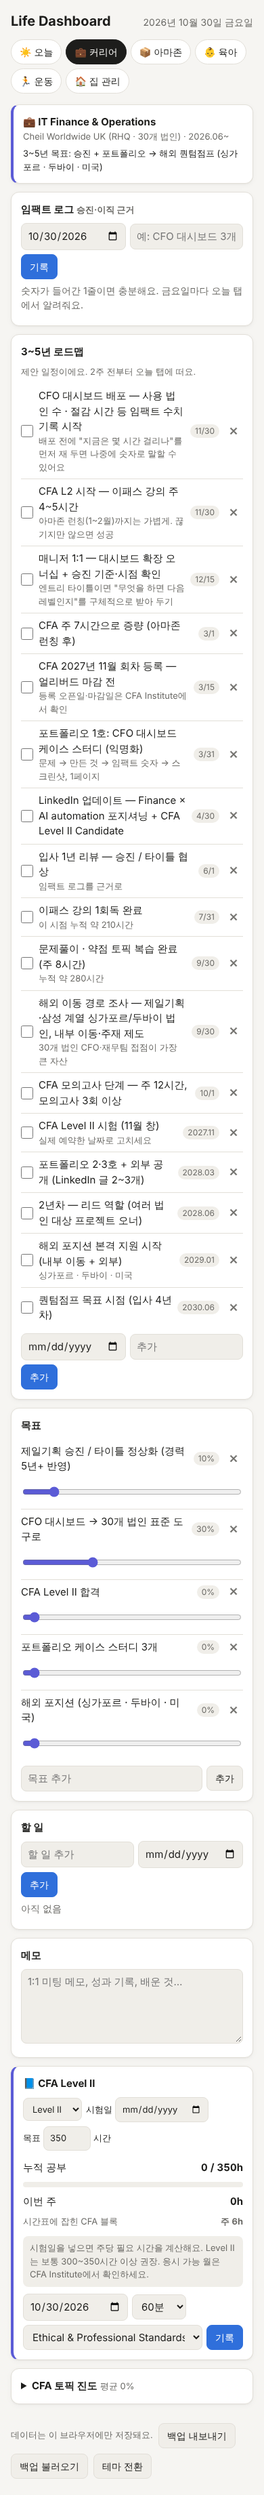
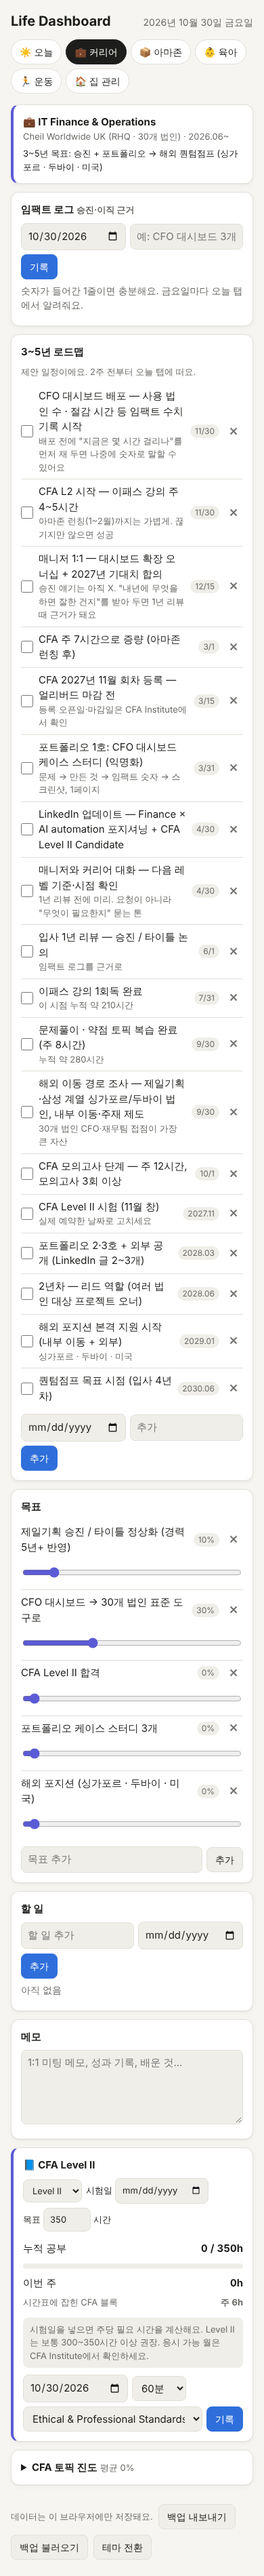
Reframe early career milestones away from promotion talk
The December 1:1 is about agreeing 2027 expectations; the promotion
conversation moves to April 2027, ahead of the one-year review.

Claude-Session: https://claude.ai/code/session_01GAwHhr3pWUM5SJs8EwZoWy

diff --git a/index.html b/index.html
@@ -184,7 +184,7 @@ const CAREER_GOALS = [
 // Suggested 3–5 year roadmap from the June 2026 start at Cheil UK; edit freely.
 const CAREER_MILESTONES = [
   ['2026-11-30', 'CFO 대시보드 배포 — 사용 법인 수 · 절감 시간 등 임팩트 수치 기록 시작', '배포 전에 "지금은 몇 시간 걸리나"를 먼저 재 두면 나중에 숫자로 말할 수 있어요'],
-  ['2026-12-15', '매니저 1:1 — 대시보드 확장 오너십 + 승진 기준·시점 확인', '엔트리 타이틀이면 "무엇을 하면 다음 레벨인지"를 구체적으로 받아 두기'],
+  ['2026-12-15', '매니저 1:1 — 대시보드 확장 오너십 + 2027년 기대치 합의', '승진 얘기는 아직 X. "내년에 무엇을 하면 잘한 건지"를 받아 두면 1년 리뷰 때 근거가 돼요'],
   ['2026-11-30', 'CFA L2 시작 — 이패스 강의 주 4~5시간', '아마존 런칭(1~2월)까지는 가볍게. 끊기지만 않으면 성공'],
   ['2027-03-01', 'CFA 주 7시간으로 증량 (아마존 런칭 후)', ''],
   ['2027-03-15', 'CFA 2027년 11월 회차 등록 — 얼리버드 마감 전', '등록 오픈일·마감일은 CFA Institute에서 확인'],
@@ -194,7 +194,8 @@ const CAREER_MILESTONES = [
   ['2027-11-16', 'CFA Level II 시험 (11월 창)', '실제 예약한 날짜로 고치세요'],
   ['2027-03-31', '포트폴리오 1호: CFO 대시보드 케이스 스터디 (익명화)', '문제 → 만든 것 → 임팩트 숫자 → 스크린샷, 1페이지'],
   ['2027-04-30', 'LinkedIn 업데이트 — Finance × AI automation 포지셔닝 + CFA Level II Candidate', ''],
-  ['2027-06-01', '입사 1년 리뷰 — 승진 / 타이틀 협상', '임팩트 로그를 근거로'],
+  ['2027-04-30', '매니저와 커리어 대화 — 다음 레벨 기준·시점 확인', '1년 리뷰 전에 미리. 요청이 아니라 "무엇이 필요한지" 묻는 톤'],
+  ['2027-06-01', '입사 1년 리뷰 — 승진 / 타이틀 논의', '임팩트 로그를 근거로'],
   ['2027-09-30', '해외 이동 경로 조사 — 제일기획·삼성 계열 싱가포르/두바이 법인, 내부 이동·주재 제도', '30개 법인 CFO·재무팀 접점이 가장 큰 자산'],
   ['2028-03-31', '포트폴리오 2·3호 + 외부 공개 (LinkedIn 글 2~3개)', ''],
   ['2028-06-01', '2년차 — 리드 역할 (여러 법인 대상 프로젝트 오너)', ''],
